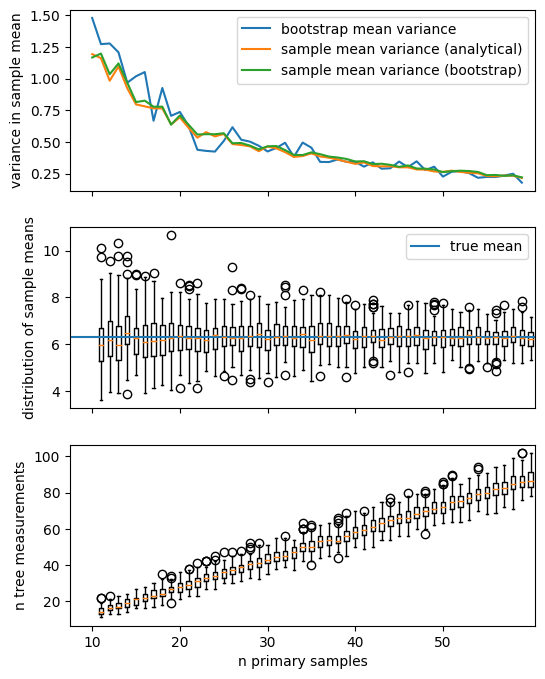
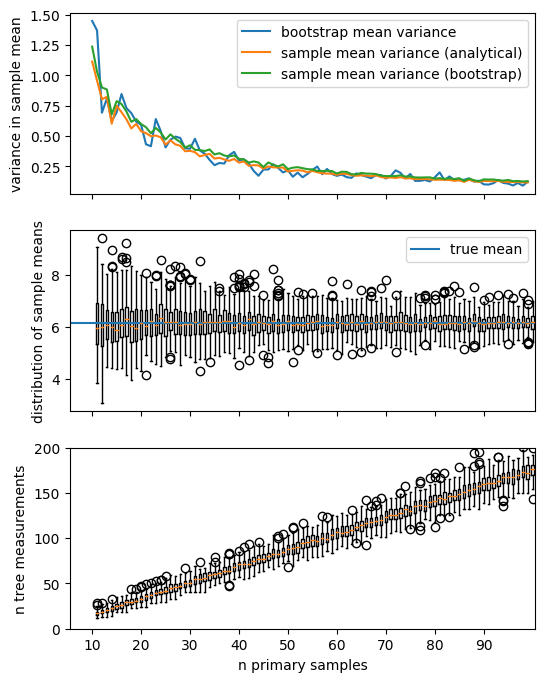
rerun code on mac

diff --git a/code/test_run.py b/code/test_run.py
@@ -9,7 +9,6 @@ from inclusion_prob import GPS_ERROR_VARIANCE, MEASUREMENT_RADIUS
 from inclusion_prob import get_distance_matrix, get_rough_inclusion_probs
 from stats import get_bootsrapped_results, plot_bootstrapped_results
 
-# %%
 # GENERATE DATA AND VISUALIZE
 N = 200
 tree_locs = get_random_tree_locs(n_trees=N)
@@ -22,7 +21,6 @@ plt.legend()
 plt.title('Tree and cluster locations')
 plt.show()
 
-# %%
 # CALCULATE INCLUSION PROBABILITIES AND SCALED VALUES
 # get inclusion probabilities
 inc_probs = get_rough_inclusion_probs(cluster_locs, eps=1e-1)
@@ -36,8 +34,9 @@ Z = EM / (N*EF) * tree_bm
 # %%
 # BOOTSTRAP RESULTS FROM SIMPLE RANDOM SAMPLING APPROACH
 srs = SRS(tree_bm, 50)
-srs_results = get_bootsrapped_results(srs, n_min=10, ns=50, n_repeats=100)
-plot_bootstrapped_results(true_mean=tree_bm.mean(), results=srs_results, outfile='srs.png')
+srs_results = get_bootsrapped_results(srs, n_min=10, ns=90, n_repeats=100)
+plot_bootstrapped_results(true_mean=tree_bm.mean(), results=srs_results, 
+                          outfile='srs.png', n_tree_ylim=(0, 200))
 
 # %%
 # BOOTSTRAP RESULTS FROM PPSWR-SRSWR SAMPLING APPROACH
@@ -48,8 +47,9 @@ ppswr_srswr = PPSWR_SRS(
     measurement_rad=MEASUREMENT_RADIUS, 
     replace=True, n_bootstraps=50)
 
-ppswr_srswr_results = get_bootsrapped_results(ppswr_srswr, n_min=10, ns=50, n_repeats=100)
-plot_bootstrapped_results(true_mean=tree_bm.mean(), results=ppswr_srswr_results, outfile='ppswr_srswr.png')
+ppswr_srswr_results = get_bootsrapped_results(ppswr_srswr, n_min=10, ns=90, n_repeats=100)
+plot_bootstrapped_results(true_mean=tree_bm.mean(), results=ppswr_srswr_results, 
+                          outfile='ppswr_srswr.png', n_tree_ylim=(0, 200))
 
 # %%
 # BOOTSTRAP RESULTS FROM PPSWR-SRSWOR SAMPLING APPROACH
@@ -60,7 +60,8 @@ ppswr_srswor = PPSWR_SRS(
     measurement_rad=MEASUREMENT_RADIUS, 
     replace=False, n_bootstraps=50)
 
-ppswr_srswor_results = get_bootsrapped_results(ppswr_srswor, n_min=10, ns=50, n_repeats=10)
-plot_bootstrapped_results(true_mean=tree_bm.mean(), results=ppswr_srswor_results, outfile='ppswr_srswor.png')
+ppswr_srswor_results = get_bootsrapped_results(ppswr_srswor, n_min=10, ns=90, n_repeats=100)
+plot_bootstrapped_results(true_mean=tree_bm.mean(), results=ppswr_srswor_results, 
+                          outfile='ppswr_srswor.png', n_tree_ylim=(0, 200))
 
 # %%

diff --git a/code/stats.py b/code/stats.py
@@ -33,7 +33,7 @@ def get_bootsrapped_results(sampler:Sample, n_min=2, ns=100, n_repeats=500):
 
     return results
 
-def plot_bootstrapped_results(true_mean, results, outfile=None):
+def plot_bootstrapped_results(true_mean, results, outfile=None, n_tree_ylim=None):
     # plot
     fig, ax = plt.subplots(nrows=3, sharex=True, figsize=(6, 8))
     ax[2].boxplot(results['n_samples'].T, patch_artist=False)
@@ -49,6 +49,8 @@ def plot_bootstrapped_results(true_mean, results, outfile=None):
     ax[2].set_xlabel('n primary samples')
     ax[1].set_ylabel('distribution of sample means')
     ax[2].set_ylabel('n tree measurements')
+    if n_tree_ylim is not None:
+        ax[2].set_ylim(n_tree_ylim)
     ax[0].set_ylabel('variance in sample mean')
     ax[1].legend()
     ax[0].legend()
